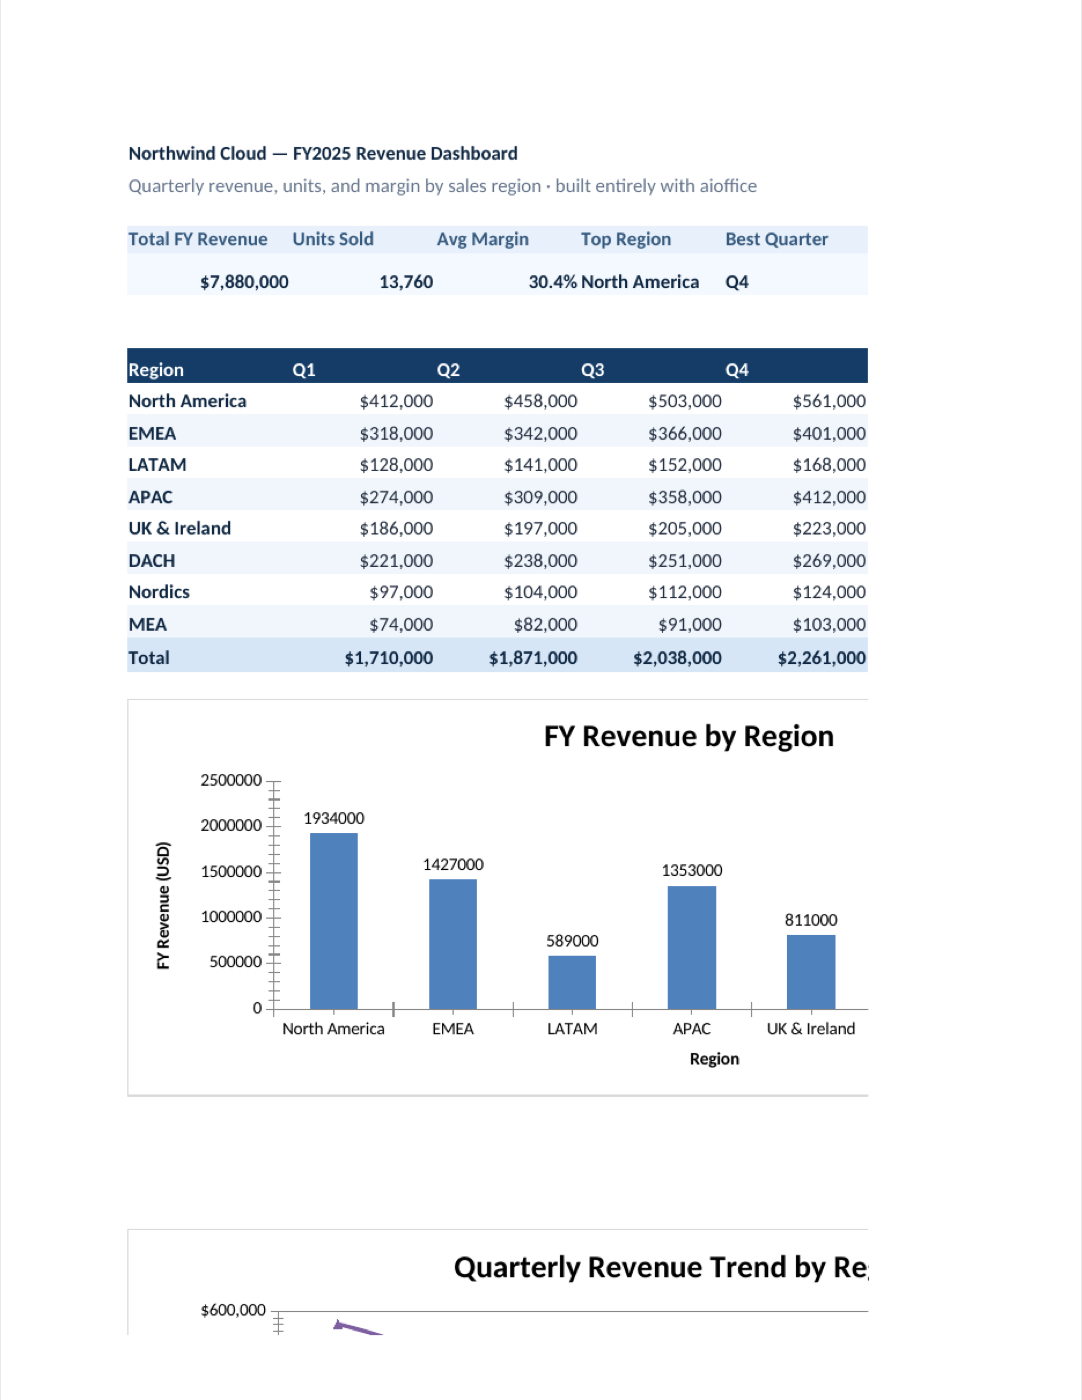
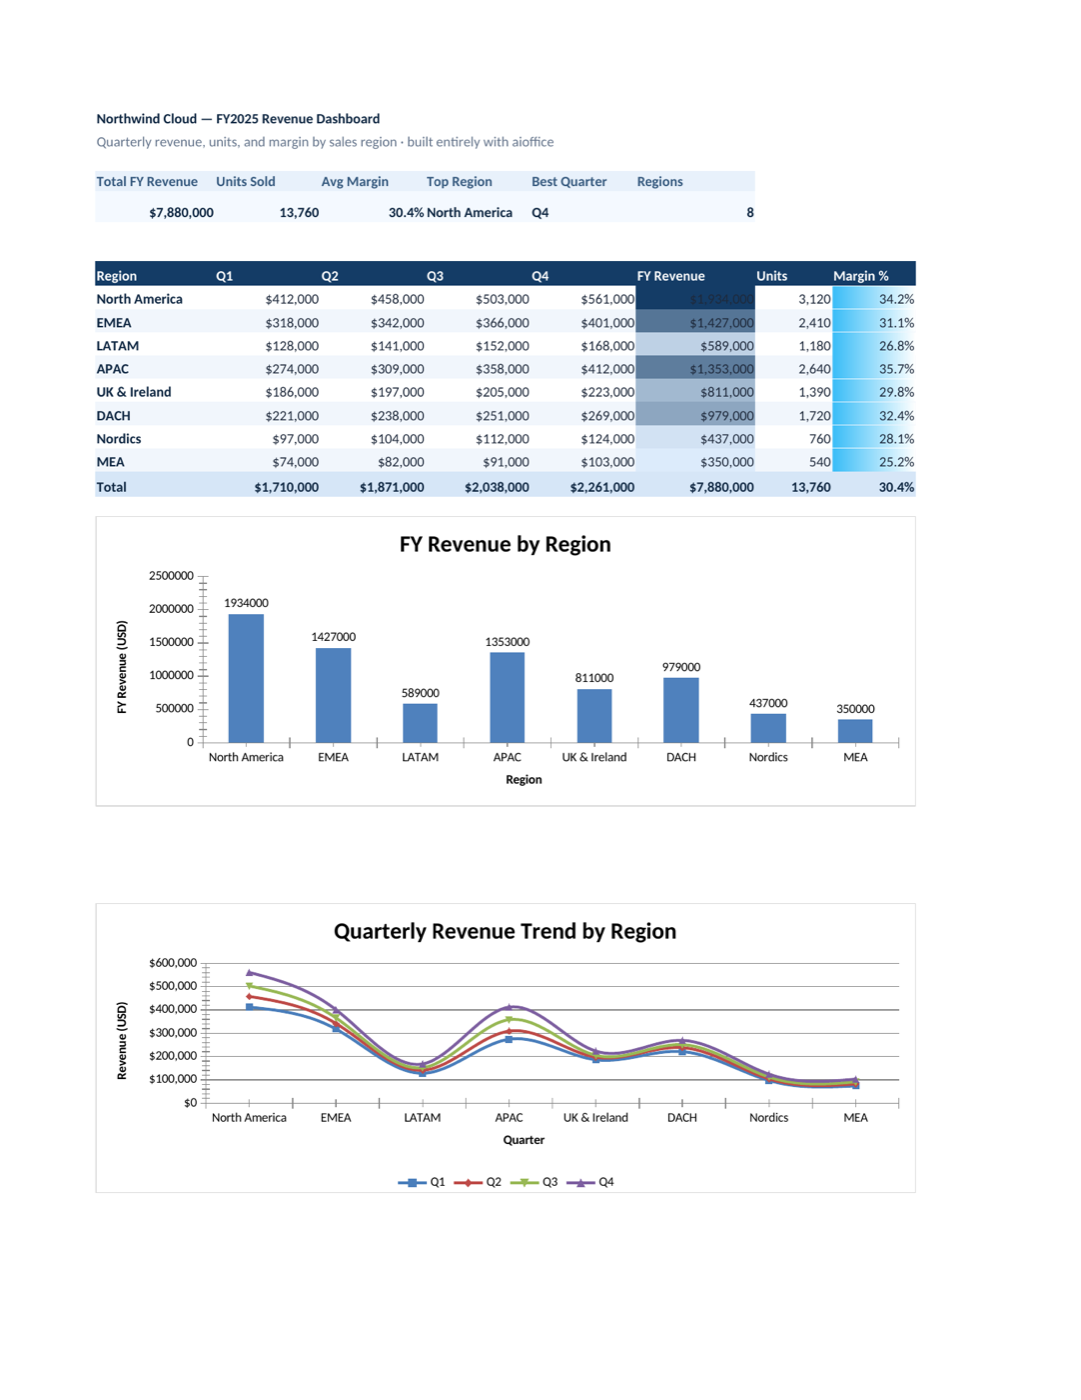
showcase QA: fix dashboard pagination (all 8 regions) + honesty consistency
Follow-up adversarial audit of the public showcase (4 agents, each re-rendering
each artifact via LibreOffice). Report = clean; deck render = clean. Fixes:

- dashboard.xlsx: the committed PNG showed only 5 of 8 regions in both charts — a
  pagination artifact, NOT a data bug (chart XML cached all 8). With no page-setup,
  the 8-column-wide charts straddled LibreOffice's default page break and the last
  three regions (DACH/Nordics/MEA) spilled onto later pages. Add printArea B2:J54 +
  fitToWidth:1 so the whole dashboard — KPI band, 8-region table, and BOTH native
  charts over all eight regions — renders on a single page. Re-rendered dashboard.png.
- SHOWCASE.md Chinese intro still carried the old false framing ("rendered by the
  same binary / a headless-Chrome screenshot"); mirror it to the LibreOffice
  third-party-proof framing already used on the English side.
- dashboard.commands.txt: the "Note on the PNG" claimed fills/charts are "not painted
  by the headless renderer — open in Excel to see them", but the committed PNG
  (LibreOffice) already shows them. Rewrote the note, folded the page-setup into the
  build step, and documented the actual LibreOffice render pipeline.
- README miniature hardcoded a stale "14 MCP tools" -> 17 (canonical), both languages.
- Clarified that deck.commands.txt is a readable annotated outline and examples/tour.sh
  is the fully-runnable verbatim build (they differ by 2 render->look->fix tweaks).
[…]

diff --git a/examples/README.md b/examples/README.md
@@ -22,8 +22,11 @@ AIO=/path/to/aioffice ./examples/tour.sh   # …or point at a specific binary
 **Requirements**
 
 - `aioffice` on your PATH — or set `AIO=/path/to/aioffice`.
-- Chrome / Chromium installed — only needed for the `render --to png` steps;
-  the build (`create` / `edit` / `validate`) works without it.
+- LibreOffice (`soffice`) + `pdftoppm` — used to render the high-fidelity gallery
+  PNGs (the same images committed under `assets/showcase/`).
+- Chrome / Chromium — optional fallback the script uses for `aioffice render --to png`
+  when LibreOffice/poppler aren't installed; the build itself
+  (`create` / `edit` / `validate`) needs neither.
 
 **What it produces** (in the build directory it prints at the end):
 

diff --git a/README.md b/README.md
@@ -71,7 +71,7 @@ aioffice edit deck.pptx --ops '[
   {"op":"add","path":"/slide[2]","type":"shape","props":{"text":"3","x":3.4,"y":7.4,"w":6.8,"h":2.6,"fontSize":48,"bold":true,"color":"38BDF8"}},
   {"op":"add","path":"/slide[2]","type":"shape","props":{"text":"file formats — docx, xlsx, pptx — one 36 MB binary","x":3.4,"y":10.6,"w":6.8,"h":3.4,"fontSize":13,"color":"94A3B8"}},
   {"op":"add","path":"/slide[2]","type":"shape","props":{"name":"card-2","x":12.6,"y":6.4,"w":8.6,"h":8.2,"fill":"1E293B"}},
-  {"op":"add","path":"/slide[2]","type":"shape","props":{"text":"14","x":13.5,"y":7.4,"w":6.8,"h":2.6,"fontSize":48,"bold":true,"color":"38BDF8"}},
+  {"op":"add","path":"/slide[2]","type":"shape","props":{"text":"17","x":13.5,"y":7.4,"w":6.8,"h":2.6,"fontSize":48,"bold":true,"color":"38BDF8"}},
   {"op":"add","path":"/slide[2]","type":"shape","props":{"text":"MCP tools, 1:1 with the CLI verbs","x":13.5,"y":10.6,"w":6.8,"h":3.4,"fontSize":13,"color":"94A3B8"}},
   {"op":"add","path":"/slide[2]","type":"shape","props":{"name":"card-3","x":22.7,"y":6.4,"w":8.6,"h":8.2,"fill":"1E293B"}},
   {"op":"add","path":"/slide[2]","type":"shape","props":{"text":"0","x":23.6,"y":7.4,"w":6.8,"h":2.6,"fontSize":48,"bold":true,"color":"38BDF8"}},

diff --git a/README.zh-CN.md b/README.zh-CN.md
@@ -71,7 +71,7 @@ aioffice edit deck.pptx --ops '[
   {"op":"add","path":"/slide[2]","type":"shape","props":{"text":"3","x":3.4,"y":7.4,"w":6.8,"h":2.6,"fontSize":48,"bold":true,"color":"38BDF8"}},
   {"op":"add","path":"/slide[2]","type":"shape","props":{"text":"file formats — docx, xlsx, pptx — one 36 MB binary","x":3.4,"y":10.6,"w":6.8,"h":3.4,"fontSize":13,"color":"94A3B8"}},
   {"op":"add","path":"/slide[2]","type":"shape","props":{"name":"card-2","x":12.6,"y":6.4,"w":8.6,"h":8.2,"fill":"1E293B"}},
-  {"op":"add","path":"/slide[2]","type":"shape","props":{"text":"14","x":13.5,"y":7.4,"w":6.8,"h":2.6,"fontSize":48,"bold":true,"color":"38BDF8"}},
+  {"op":"add","path":"/slide[2]","type":"shape","props":{"text":"17","x":13.5,"y":7.4,"w":6.8,"h":2.6,"fontSize":48,"bold":true,"color":"38BDF8"}},
   {"op":"add","path":"/slide[2]","type":"shape","props":{"text":"MCP tools, 1:1 with the CLI verbs","x":13.5,"y":10.6,"w":6.8,"h":3.4,"fontSize":13,"color":"94A3B8"}},
   {"op":"add","path":"/slide[2]","type":"shape","props":{"name":"card-3","x":22.7,"y":6.4,"w":8.6,"h":8.2,"fill":"1E293B"}},
   {"op":"add","path":"/slide[2]","type":"shape","props":{"text":"0","x":23.6,"y":7.4,"w":6.8,"h":2.6,"fontSize":48,"bold":true,"color":"38BDF8"}},